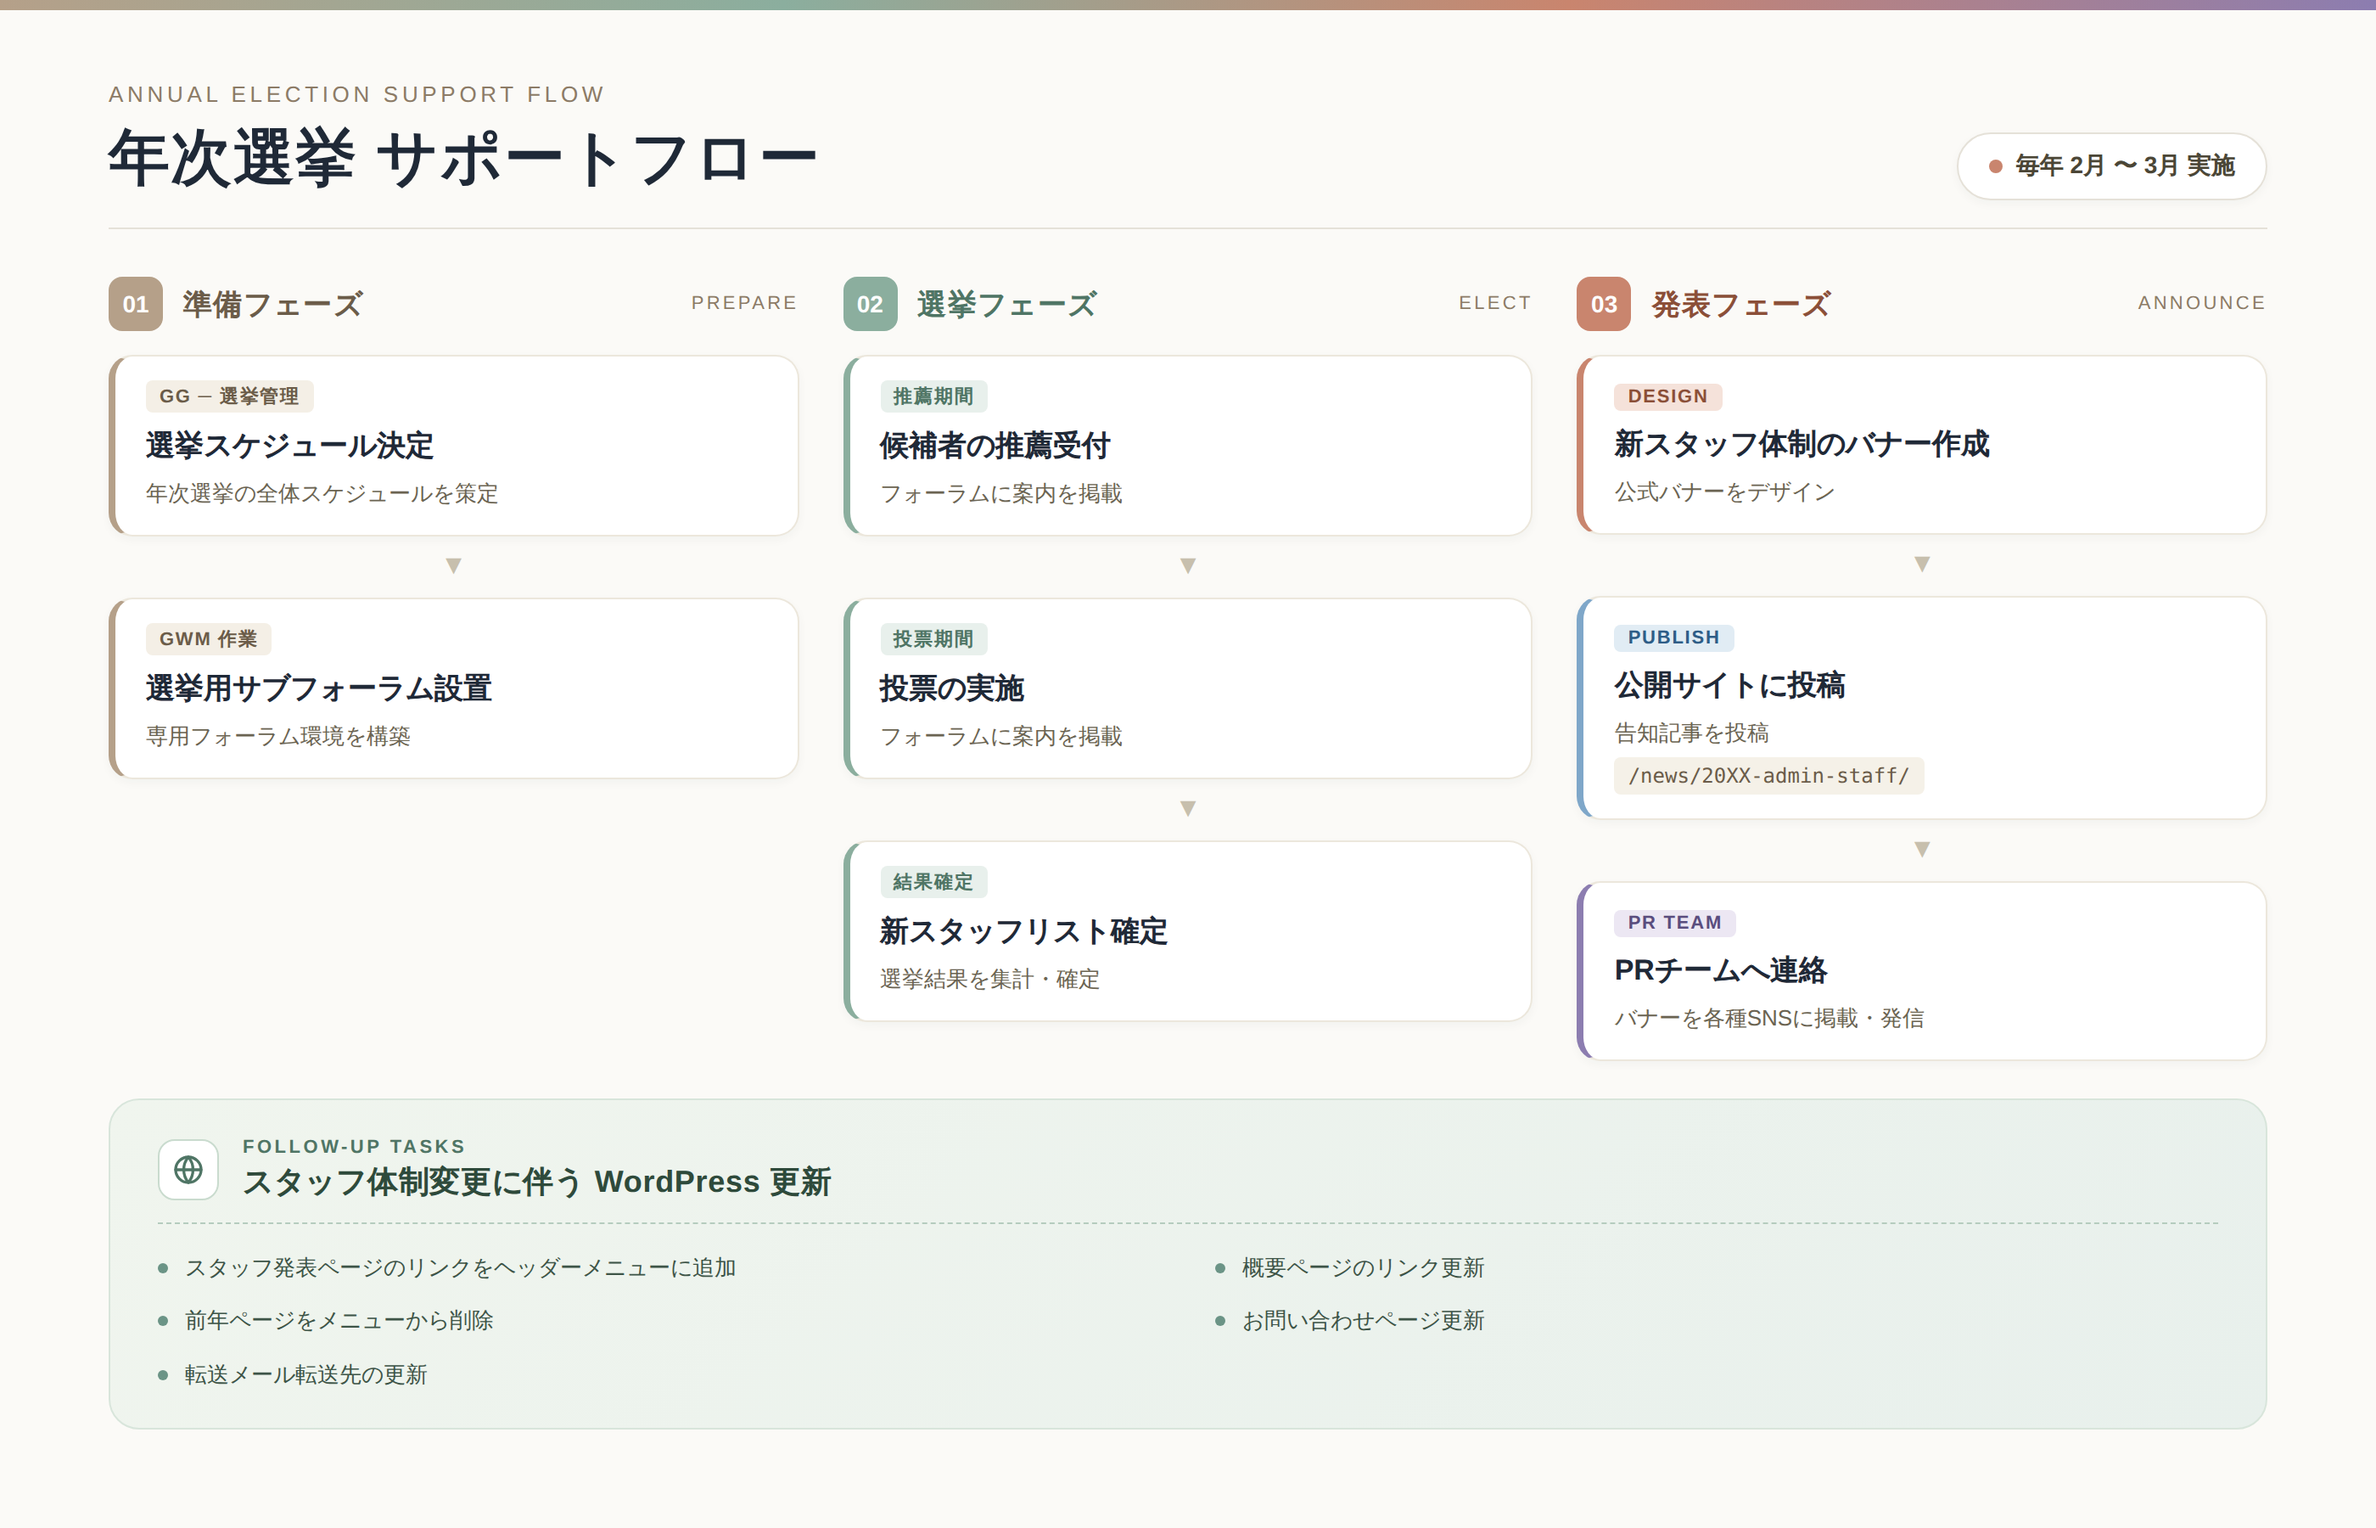
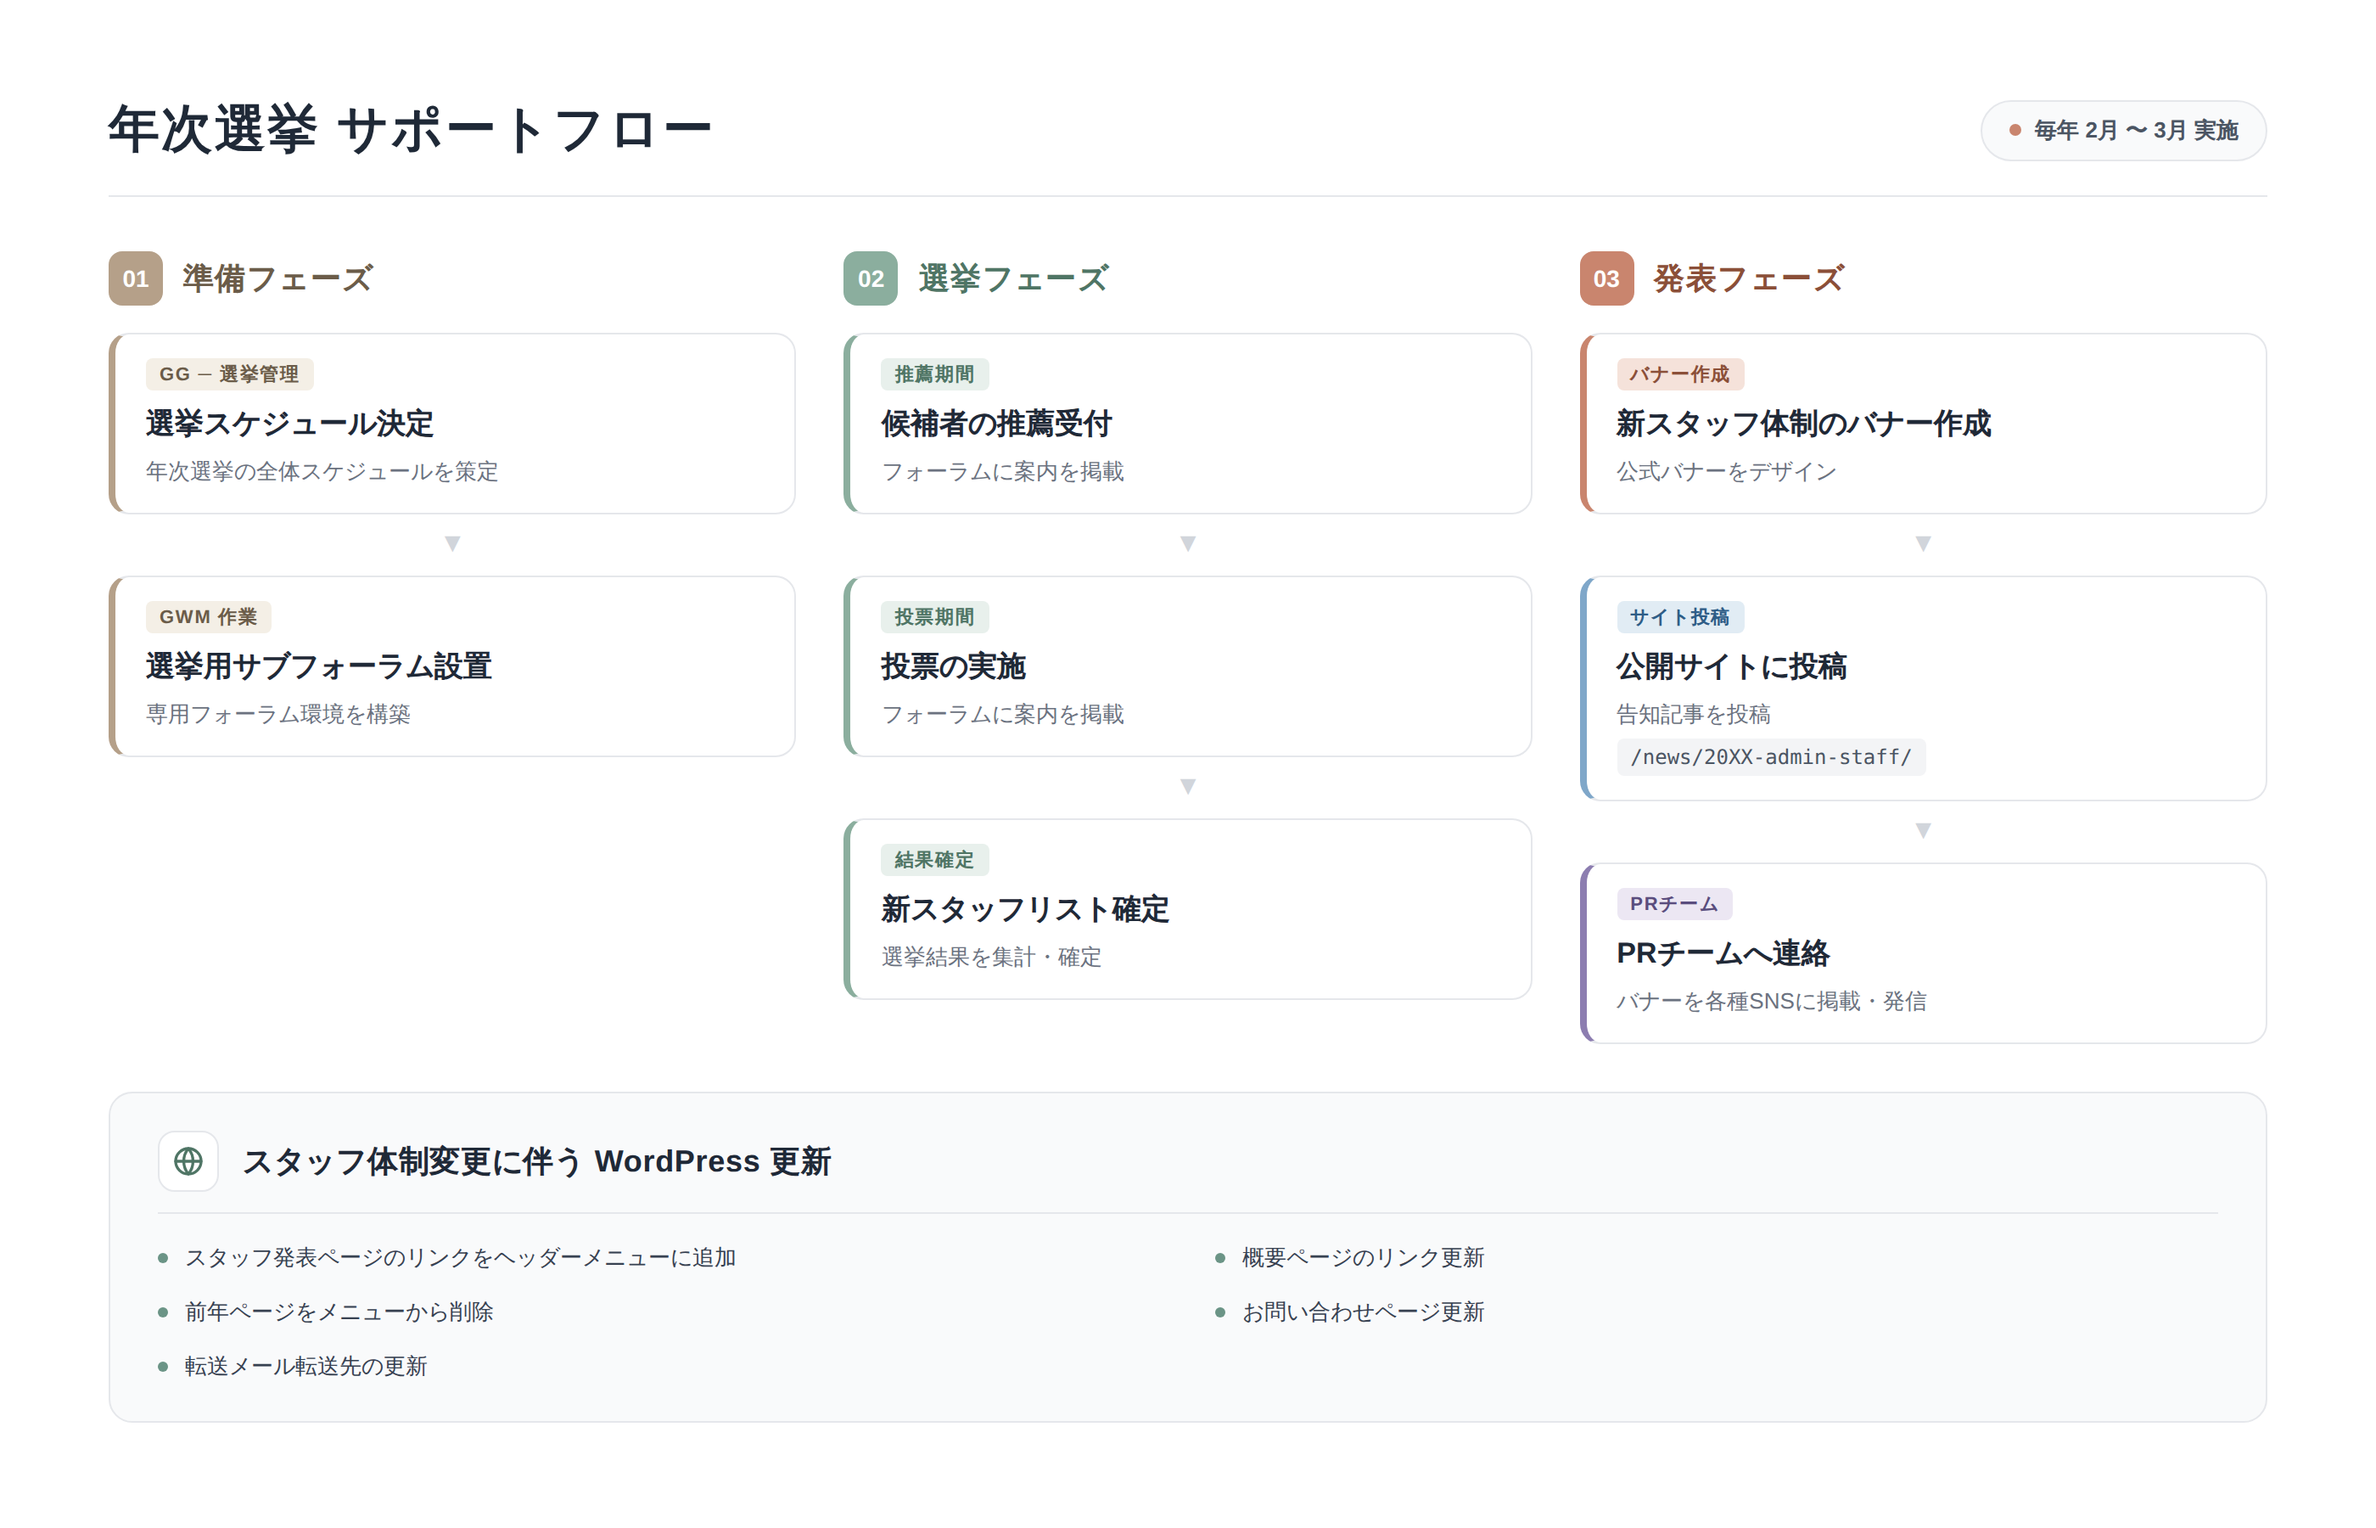
Refine design with Noto Sans, white background, simplified header
Switch the typography to Noto Sans CJK JP for a cleaner Japanese reading
experience, drop the colored accent band and English shoulder copy, and
flatten the canvas to pure white so the diagram can be pasted into other
documents without competing chrome.

diff --git a/election_flow.html b/election_flow.html
@@ -3,77 +3,58 @@
 <head>
 <meta charset="UTF-8">
 <title>年次選挙 サポートフロー</title>
-<link rel="stylesheet" href="https://use.typekit.net/fhk4ttj.css">
+<link rel="stylesheet" href="https://use.typekit.net/rvz3drj.css">
 <meta name="hz:slide-selector" content=".slide">
 <meta name="hz:canvas-width" content="1400">
 <meta name="hz:canvas-height" content="900">
 <style>
-  * { margin: 0; padding: 0; box-sizing: border-box; font-family: "zen-kaku-gothic-new", sans-serif; }
-  body { font-family: "zen-kaku-gothic-new", sans-serif; }
-  .slide, .title, .eyebrow, .schedule-pill, .phase-label, .phase-sub,
-  .card-tag, .card-title, .card-desc, .code-path, .wp-eyebrow, .wp-title,
-  .wp-item, .footer { font-family: "zen-kaku-gothic-new", sans-serif; }
+  * { margin: 0; padding: 0; box-sizing: border-box; font-family: "noto-sans-cjk-jp", sans-serif; }
+  body { font-family: "noto-sans-cjk-jp", sans-serif; }
+  .slide, .title, .schedule-pill, .phase-label,
+  .card-tag, .card-title, .card-desc, .code-path, .wp-title,
+  .wp-item { font-family: "noto-sans-cjk-jp", sans-serif; }
   .code-path { font-family: "SFMono-Regular", Menlo, monospace; }
   .slide {
     width: 1400px;
     height: 900px;
-    background: #FBFAF7;
+    background: #FFFFFF;
     position: relative;
-    padding: 48px 64px 64px;
+    padding: 56px 64px 64px;
     color: #1F2937;
     overflow: hidden;
-  }
-
-  /* Decorative accent */
-  .accent-line {
-    position: absolute;
-    top: 0;
-    left: 0;
-    width: 100%;
-    height: 6px;
-    background: linear-gradient(90deg, #B5A089 0%, #8BAE9E 33%, #C9856E 66%, #8C7DB0 100%);
   }
 
   /* Header */
   .header {
     display: flex;
-    align-items: flex-end;
+    align-items: center;
     justify-content: space-between;
-    margin-bottom: 28px;
-    padding-bottom: 16px;
-    border-bottom: 1px solid #E5E1D8;
-  }
-  .title-block { display: flex; flex-direction: column; gap: 6px; }
-  .eyebrow {
-    font-size: 13px;
-    font-weight: 500;
-    letter-spacing: 0.18em;
-    color: #8C7B66;
-    text-transform: uppercase;
+    margin-bottom: 32px;
+    padding-bottom: 18px;
+    border-bottom: 1px solid #E5E7EB;
   }
   .title {
-    font-size: 36px;
+    font-size: 30px;
     font-weight: 700;
     color: #1F2937;
-    letter-spacing: 0.02em;
+    letter-spacing: 0.04em;
   }
   .schedule-pill {
     display: inline-flex;
     align-items: center;
     gap: 8px;
-    background: #FFFFFF;
-    border: 1px solid #E5E1D8;
-    padding: 10px 18px;
+    background: #F9FAFB;
+    border: 1px solid #E5E7EB;
+    padding: 8px 16px;
     border-radius: 999px;
-    font-size: 14px;
+    font-size: 13px;
     font-weight: 600;
-    color: #4B4636;
-    box-shadow: 0 2px 6px rgba(31,41,55,0.04);
+    color: #4B5563;
   }
   .schedule-pill::before {
     content: "";
-    width: 8px;
-    height: 8px;
+    width: 7px;
+    height: 7px;
     border-radius: 50%;
     background: #C9856E;
   }
@@ -82,8 +63,8 @@
   .phases {
     display: grid;
     grid-template-columns: 1fr 1fr 1fr;
-    gap: 26px;
-    margin-bottom: 22px;
+    gap: 28px;
+    margin-bottom: 28px;
   }
   .phase {
     display: flex;
@@ -94,7 +75,7 @@
     display: flex;
     align-items: center;
     gap: 12px;
-    margin-bottom: 4px;
+    margin-bottom: 6px;
   }
   .phase-number {
     width: 32px;
@@ -108,26 +89,17 @@
     color: #FFFFFF;
   }
   .phase-label {
-    font-size: 17px;
+    font-size: 18px;
     font-weight: 700;
     letter-spacing: 0.04em;
-  }
-  .phase-sub {
-    font-size: 11px;
-    font-weight: 500;
-    letter-spacing: 0.15em;
-    color: #8C7B66;
-    text-transform: uppercase;
-    margin-left: auto;
   }
 
   /* Cards */
   .card {
     background: #FFFFFF;
-    border-radius: 14px;
+    border-radius: 12px;
     padding: 14px 18px;
-    border: 1px solid #ECE7DC;
-    box-shadow: 0 2px 6px rgba(31,41,55,0.04);
+    border: 1px solid #E5E7EB;
     position: relative;
   }
   .card-tag {
@@ -149,26 +121,22 @@
   .card-desc {
     font-size: 13px;
     line-height: 1.55;
-    color: #6B6452;
+    color: #6B7280;
   }
 
   /* Phase 1 - Sand */
   .phase-1 .phase-number { background: #B5A089; }
   .phase-1 .phase-label { color: #6B5C49; }
-  .phase-1 .card {
-    border-left: 4px solid #B5A089;
-  }
+  .phase-1 .card { border-left: 4px solid #B5A089; }
   .phase-1 .card-tag { background: #F4EFE6; color: #6B5C49; }
 
   /* Phase 2 - Sage */
   .phase-2 .phase-number { background: #8BAE9E; }
   .phase-2 .phase-label { color: #4F7565; }
-  .phase-2 .card {
-    border-left: 4px solid #8BAE9E;
-  }
+  .phase-2 .card { border-left: 4px solid #8BAE9E; }
   .phase-2 .card-tag { background: #E8F0EC; color: #4F7565; }
 
-  /* Phase 3 - Terracotta + Lavender */
+  /* Phase 3 - Terracotta + Sky + Lavender */
   .phase-3 .phase-number { background: #C9856E; }
   .phase-3 .phase-label { color: #8B4F38; }
   .phase-3 .card.terracotta { border-left: 4px solid #C9856E; }
@@ -182,49 +150,28 @@
   .code-path {
     font-family: "SFMono-Regular", Menlo, monospace;
     font-size: 12px;
-    background: #F5F1E8;
-    color: #6B5C49;
+    background: #F3F4F6;
+    color: #4B5563;
     padding: 4px 8px;
     border-radius: 4px;
     display: inline-block;
     margin-top: 4px;
   }
 
-  /* Arrows between cards in a phase */
+  /* Arrows */
   .arrow-down {
     align-self: center;
-    color: #C7BFAD;
+    color: #D1D5DB;
     font-size: 16px;
     line-height: 1;
   }
 
-  /* Inter-phase arrow indicator */
-  .phase-arrow {
-    position: absolute;
-    top: 50%;
-    right: -22px;
-    transform: translateY(-50%);
-    width: 28px;
-    height: 28px;
-    background: #FFFFFF;
-    border-radius: 50%;
-    display: flex;
-    align-items: center;
-    justify-content: center;
-    box-shadow: 0 2px 6px rgba(31,41,55,0.08);
-    color: #8C7B66;
-    font-size: 13px;
-    font-weight: 700;
-    z-index: 2;
-  }
-
   /* WordPress section */
   .wp-section {
-    background: linear-gradient(135deg, #F0F5EE 0%, #E8F0EC 100%);
-    border-radius: 18px;
+    background: #F9FAFB;
+    border-radius: 14px;
     padding: 22px 28px;
-    border: 1px solid #D8E5DB;
-    position: relative;
+    border: 1px solid #E5E7EB;
   }
   .wp-header {
     display: flex;
@@ -232,7 +179,7 @@
     gap: 14px;
     margin-bottom: 16px;
     padding-bottom: 12px;
-    border-bottom: 1px dashed #B5CCBE;
+    border-bottom: 1px solid #E5E7EB;
   }
   .wp-icon {
     width: 36px;
@@ -242,23 +189,15 @@
     display: flex;
     align-items: center;
     justify-content: center;
-    border: 1px solid #C9DBCE;
+    border: 1px solid #E5E7EB;
   }
   .wp-icon svg { width: 20px; height: 20px; }
   .wp-title-block { flex: 1; }
-  .wp-eyebrow {
-    font-size: 11px;
-    font-weight: 600;
-    letter-spacing: 0.16em;
-    color: #4F7565;
-    text-transform: uppercase;
-  }
   .wp-title {
     font-size: 18px;
     font-weight: 700;
-    color: #2E4A3B;
+    color: #1F2937;
     letter-spacing: 0.02em;
-    margin-top: 2px;
   }
   .wp-grid {
     display: grid;
@@ -270,8 +209,8 @@
     align-items: flex-start;
     gap: 10px;
     font-size: 13px;
-    color: #3D5447;
-    line-height: 1.5;
+    color: #374151;
+    line-height: 1.55;
   }
   .wp-bullet {
     width: 6px;
@@ -281,20 +220,14 @@
     margin-top: 7px;
     flex-shrink: 0;
   }
-
-  /* Footer removed for cleaner layout */
 </style>
 </head>
 <body>
 <div class="slide" data-canvas-width="1400" data-canvas-height="900">
-  <div class="accent-line"></div>
 
   <!-- Header -->
   <div class="header">
-    <div class="title-block">
-      <span class="eyebrow">ANNUAL ELECTION SUPPORT FLOW</span>
-      <span class="title">年次選挙 サポートフロー</span>
-    </div>
+    <span class="title">年次選挙 サポートフロー</span>
     <div class="schedule-pill">毎年 2月 〜 3月 実施</div>
   </div>
 
@@ -306,7 +239,6 @@
       <div class="phase-header">
         <div class="phase-number">01</div>
         <div class="phase-label">準備フェーズ</div>
-        <div class="phase-sub">PREPARE</div>
       </div>
       <div class="card">
         <span class="card-tag">GG ─ 選挙管理</span>
@@ -326,7 +258,6 @@
       <div class="phase-header">
         <div class="phase-number">02</div>
         <div class="phase-label">選挙フェーズ</div>
-        <div class="phase-sub">ELECT</div>
       </div>
       <div class="card">
         <span class="card-tag">推薦期間</span>
@@ -352,23 +283,22 @@
       <div class="phase-header">
         <div class="phase-number">03</div>
         <div class="phase-label">発表フェーズ</div>
-        <div class="phase-sub">ANNOUNCE</div>
       </div>
       <div class="card terracotta">
-        <span class="card-tag">DESIGN</span>
+        <span class="card-tag">バナー作成</span>
         <div class="card-title">新スタッフ体制のバナー作成</div>
         <div class="card-desc">公式バナーをデザイン</div>
       </div>
       <div class="arrow-down">▼</div>
       <div class="card sky">
-        <span class="card-tag">PUBLISH</span>
+        <span class="card-tag">サイト投稿</span>
         <div class="card-title">公開サイトに投稿</div>
         <div class="card-desc">告知記事を投稿</div>
         <div class="code-path">/news/20XX-admin-staff/</div>
       </div>
       <div class="arrow-down">▼</div>
       <div class="card lavender">
-        <span class="card-tag">PR TEAM</span>
+        <span class="card-tag">PRチーム</span>
         <div class="card-title">PRチームへ連絡</div>
         <div class="card-desc">バナーを各種SNSに掲載・発信</div>
       </div>
@@ -385,7 +315,6 @@
         </svg>
       </div>
       <div class="wp-title-block">
-        <div class="wp-eyebrow">FOLLOW-UP TASKS</div>
         <div class="wp-title">スタッフ体制変更に伴う WordPress 更新</div>
       </div>
     </div>
